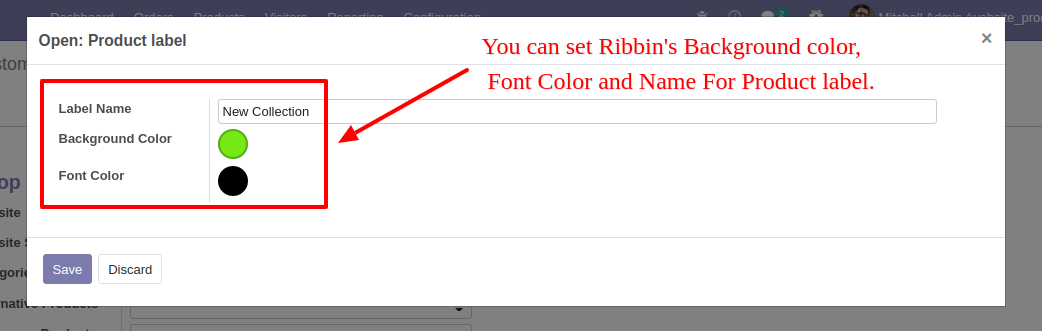
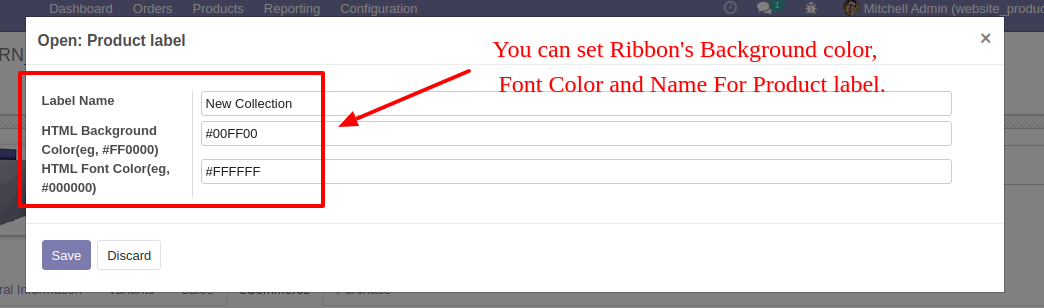
[ADD]code added for module change 12

diff --git a/website_product_lable/static/description/index.html b/website_product_lable/static/description/index.html
@@ -2,7 +2,7 @@
     <div class="oe_row oe_spaced">
         <div class="oe_span12">
             <h2 class="oe_slogan">Website Product Ribbon</h2>
-            <h3 class="oe_slogan">This module allows show product label as Ribbin in Shop Page which is attract product to customer for shopping.
+            <h3 class="oe_slogan">This module allows show product label as Ribbon in Shop Page which is attract product to customer for shopping.
             </h3>
         </div>
     </div>

diff --git a/website_product_lable/static/src/css/style.css b/website_product_lable/static/src/css/style.css
@@ -4,7 +4,7 @@
     top: 20px;
     left: -8px;
     background: rgba(165, 128, 109, 0.7);
-    z-index: 1;
+    z-index: 10;
 }
 
 

diff --git a/website_product_lable/models/product_label.py b/website_product_lable/models/product_label.py
@@ -4,8 +4,8 @@ class ProductLabel(models.Model):
     _name = "product.label"
 
     name = fields.Char("Label Name")
-    bg_color = fields.Char("Background Color")
-    font_color = fields.Char("Font Color")
+    bg_color = fields.Char("HTML Background Color(eg, #FF0000)")
+    font_color = fields.Char("HTML Font Color(eg, #000000)")
 
 
 class ProductTemplate(models.Model):
